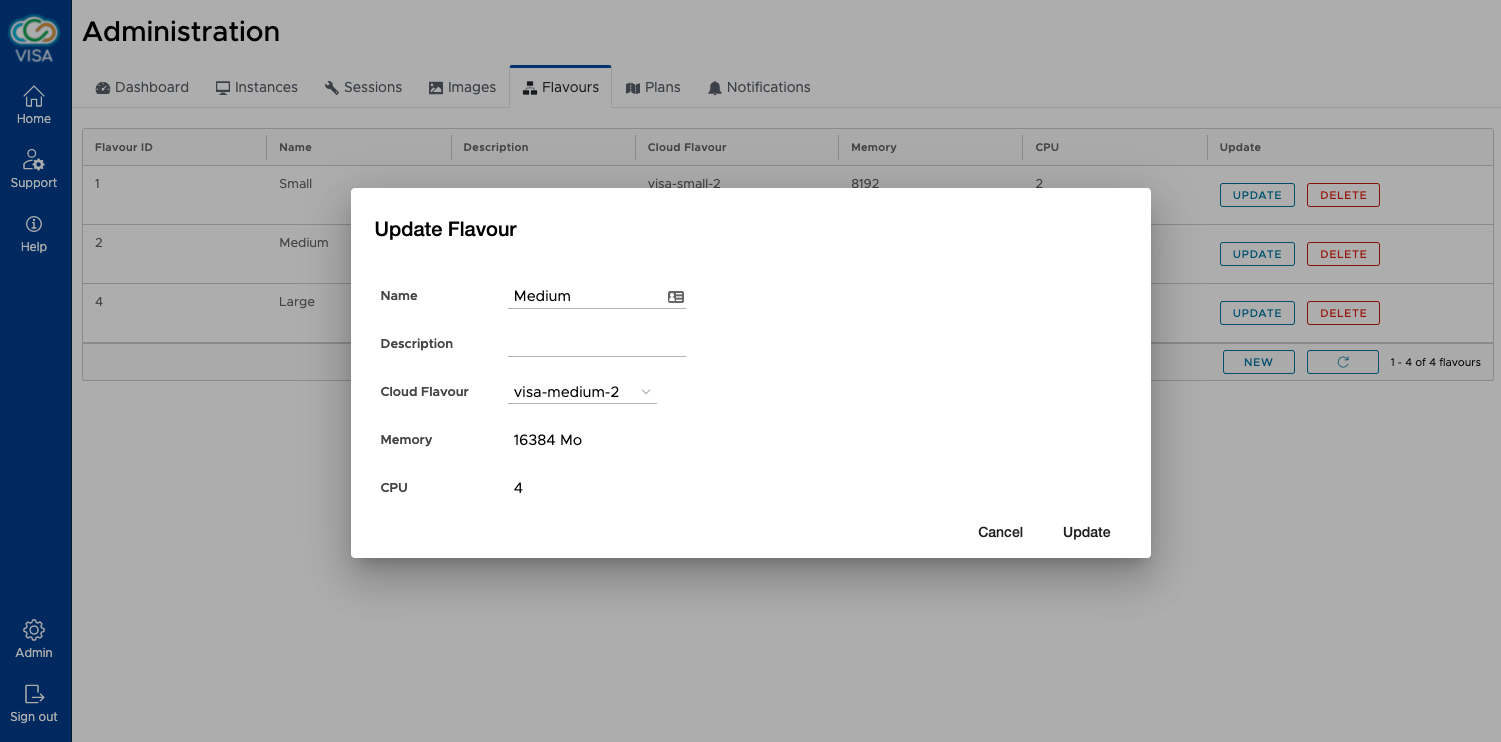
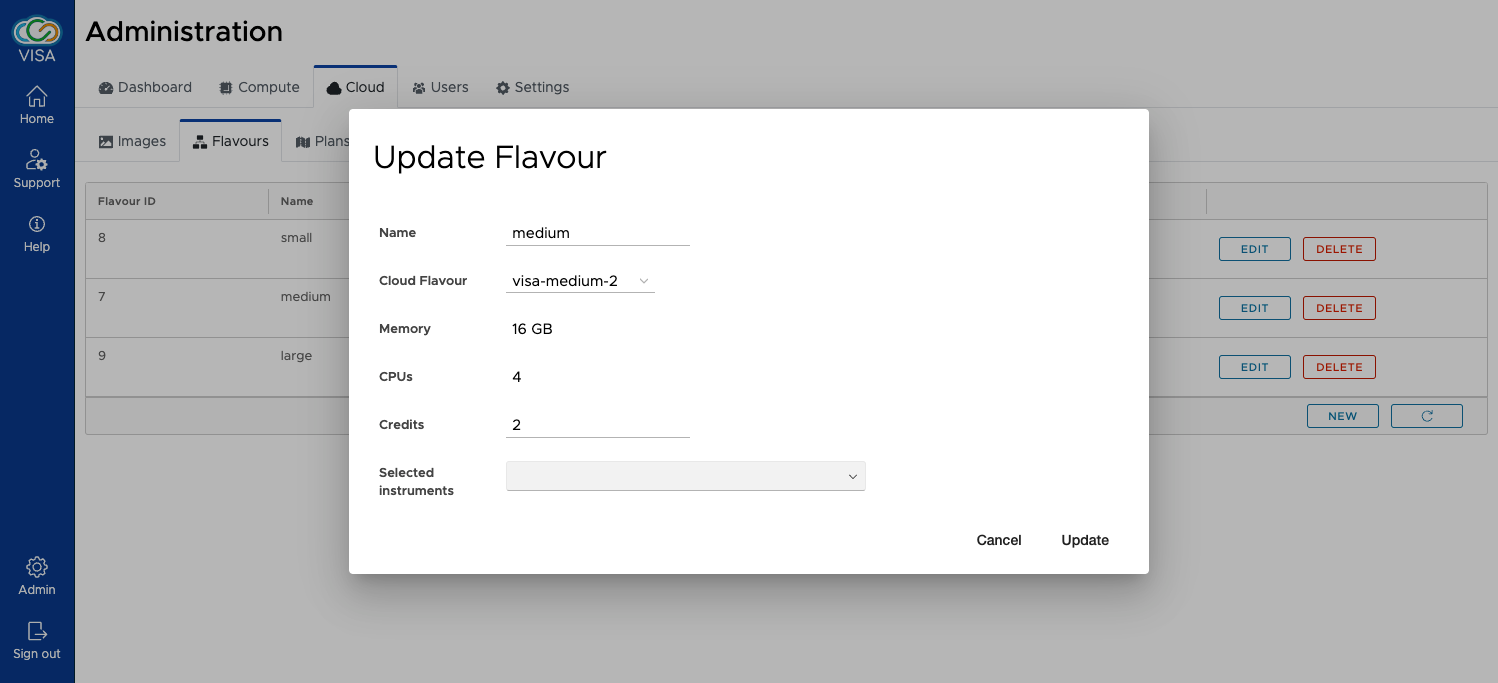
Add instance credits to docs

diff --git a/docs/source/admin/admin-flavours.md b/docs/source/admin/admin-flavours.md
@@ -25,6 +25,14 @@ The Flavours interface shows a list of Flavours that are available in VISA. The 
 
   Shows the vCPUs that are available with the Flavour (this is taken directly from OpenStack)
 
+- **Credits**
+
+  Shows the the number of Credits needed to create an instance with this Flavour. Each user has a limited number of Credits (normally decided by the role of that person).
+
+- **Selected instruments**
+
+  A Flavour can be restricted to specific instruments. For example a large Flavour that provides a high number of vCPUs and a large amaount of Memory can be limited to instruments that require this due to detector sizes. If not value is set then the Flavour is available to all instruments.
+
 The Flavour can be updated and deleted. Please note that the database entry for the Flavour is only soft deleted so it can be recovered if necessary. Deleting a Flavour does not have any impact on running instances: this will only make the Flavour invisible to users and no changes are made to OpenStack.
 
 A button to create a new Flavour is also available.

diff --git a/docs/source/overview/overview-features.md b/docs/source/overview/overview-features.md
@@ -32,7 +32,7 @@ A full list of features provided by VISA is as follows:
 
 - **Quotas based on user role**
 
-  Staff and Visitors are allowed to have a different number of instances running in parallel
+  Staff and Visitors are given different quotas (instance Credits) allowing them to have different number of instances running in parallel.
 
 - **Scientific and technical support roles**
 
